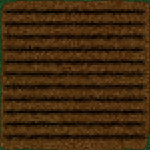
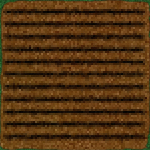
Updated graphic brightness and fixed colors
*removed opacity for certain things since it messed with matching colors
*brighter backgrounds of contract panes etc made plant graphics look
too dark, etc.

diff --git a/dev_scripts/clientHealth.js b/dev_scripts/clientHealth.js
@@ -32,33 +32,33 @@ biofuelsGame.clientHealth = function()
     // must call super constructor
     lime.RoundedRect.call(this);
         
-    this.setSize(200,200).setRadius(10);
+    this.setSize(200,200).setRadius(12);
     this.setFill('#FEF8D0');
-	this.setStroke(new lime.fill.Stroke(10, '#664'));     
+	this.setStroke(new lime.fill.Stroke(12, '#664'));     
 	
-	this.graphTitle = makeLabel('Farmer Sustainability', 0, -95, 12, '#fff', 'center');
+	this.graphTitle = makeLabel('Farmer Sustainability', 0, -95, 13, '#FFF', 'center');
 	this.appendChild(this.graphTitle);
 	
-	this.graphLabel1 = makeLabel('Emissions', 0, -85, 10, '#777', 'center');
+	this.graphLabel1 = makeLabel('Emissions', 0, -80, 10, '#777', 'center');
 	this.appendChild(this.graphLabel1);
 
-	this.graphLabel2 = makeLabel('Economic Value', 0, 85, 10, '#777', 'center');
+	this.graphLabel2 = makeLabel('Economic Value', 0, 80, 10, '#777', 'center');
 	this.appendChild(this.graphLabel2);
 
-	this.graphLabel3a = makeLabel('Soil', 75, -5, 10, '#777', 'center');
+	this.graphLabel3a = makeLabel('Soil', 70, -5, 10, '#777', 'center');
 	this.appendChild(this.graphLabel3a);
-	this.graphLabel3b = makeLabel('Health', 75, 5, 10, '#777', 'center');
+	this.graphLabel3b = makeLabel('Health', 70, 5, 10, '#777', 'center');
 	this.appendChild(this.graphLabel3b);
 	
-	this.graphLabel4a = makeLabel('Energy', -69, -5, 10, '#777', 'center');
+	this.graphLabel4a = makeLabel('Energy', -64, -5, 10, '#777', 'center');
 	this.appendChild(this.graphLabel4a);
-	this.graphLabel4b = makeLabel('Potential', -69, 5, 10, '#777', 'center');
+	this.graphLabel4b = makeLabel('Potential', -64, 5, 10, '#777', 'center');
 	this.appendChild(this.graphLabel4b);
 	
-	this.graphGrid1 = makeLine(1, 0, -90, 0, 90).setFill('#888');
+	this.graphGrid1 = makeLine(1, 0, -85, 0, 85).setFill('#888');
 	this.appendChild(this.graphGrid1);
 	
-	this.graphGrid2 = makeLine(1, 90, 0, -90, 0).setFill('#888');
+	this.graphGrid2 = makeLine(1, 85, 0, -85, 0).setFill('#888');
 	this.appendChild(this.graphGrid2);
 	
 	// Show normalized plot?

diff --git a/dev_scripts/fieldHealthPopup.js b/dev_scripts/fieldHealthPopup.js
@@ -33,16 +33,16 @@ biofuelsGame.fieldHealthPopup = function()
     lime.RoundedRect.call(this);
         
     this.setSize(180,180).setRadius(10);
-    this.setFill('#FEF8D0').setOpacity(0.9);
+    this.setFill('#FEF8D0');
 	this.setStroke(new lime.fill.Stroke(10, '#664'));     
     this.setScale(0.25);
 	this.runAction( new lime.animation.ScaleTo(1).setDuration(0.1) );
 	
 	this.closeSprite = new lime.Sprite().setFill('assets/close_icon.png');
-	this.closeSprite.setPosition(95,-95).setAnchorPoint(1,0).setOpacity(0.8);
+	this.closeSprite.setPosition(95,-95).setAnchorPoint(1,0);
 	this.appendChild(this.closeSprite);
 	
-	this.graphTitle = makeLabel('Field Sustainability', 0, -85, 10, '#000', 'center');
+	this.graphTitle = makeLabel('Field Sustainability', 0, -85, 12, '#fff', 'center');
 	this.appendChild(this.graphTitle);
 	
 	this.graphLabel1 = makeLabel('Emissions', 0, -75, 10, '#777', 'center');

diff --git a/dev_scripts/biofuelsGame.js b/dev_scripts/biofuelsGame.js
@@ -42,7 +42,7 @@ biofuelsGame.start = function(){
  
     var roundRect = new lime.RoundedRect().setSize(452,620).setRadius(12).setAnchorPoint(0.5,0).setPosition(225,90);
 //    this.setFill('#FEF8D0').setOpacity(0.8);
-	roundRect.setStroke(new lime.fill.Stroke(12, '#434325'));     
+	roundRect.setStroke(new lime.fill.Stroke(12, '#565636'));//#434325'));     
 	scene.appendChild(roundRect);
 	
     var countOfFields = 6, x = 0, y = 0;

diff --git a/dev_scripts/contractPane.js b/dev_scripts/contractPane.js
@@ -16,7 +16,7 @@ biofuelsGame.contractPane = function(title, iconAsset)
     lime.RoundedRect.call(this);
         
     this.setSize(200,90).setRadius(12).setAnchorPoint(0.5,0);
-    this.setFill('#FEF8D0').setOpacity(0.8);
+    this.setFill('#FEF8D0');
 	this.setStroke(new lime.fill.Stroke(12, '#664'));     
 	
 	this.icon = new lime.Sprite();
